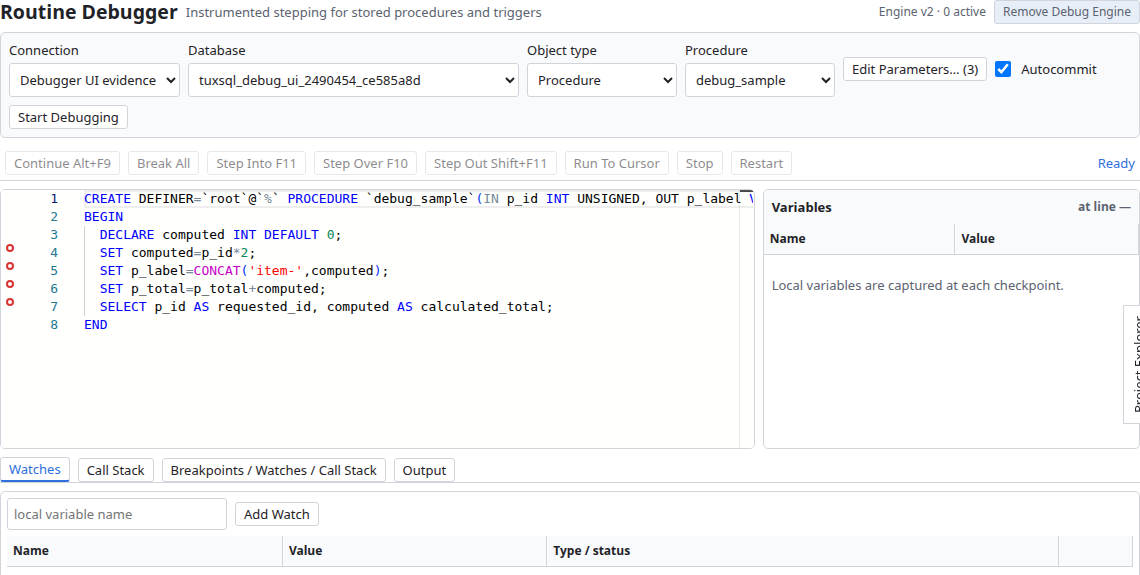
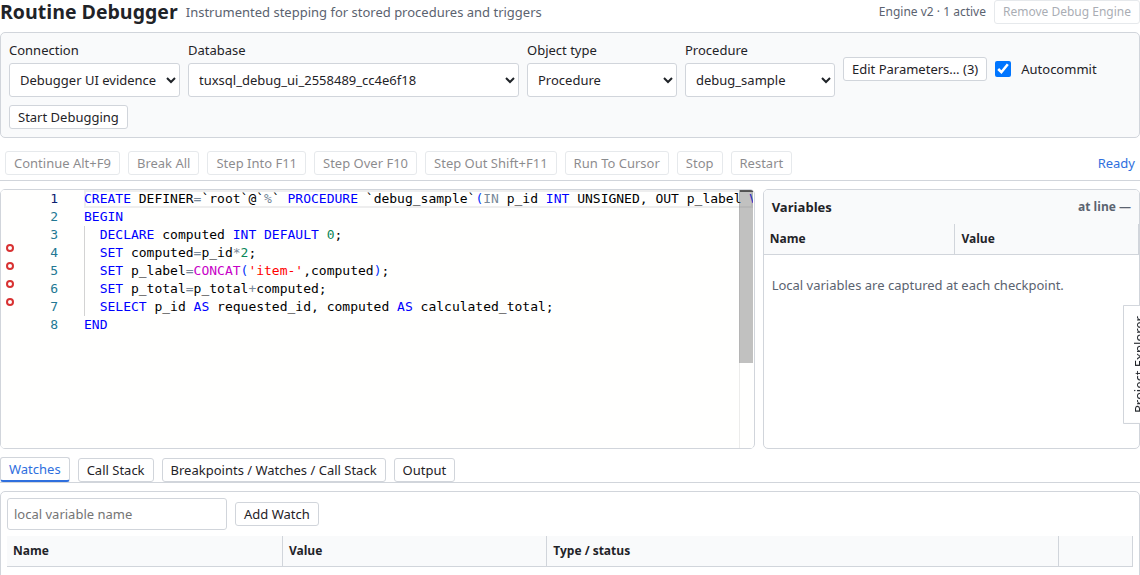
feat(debugger): View Output Parameters at end of run, keep finished status during cleanup; evidence for Break All and dynamic privileges

Changed region(s): [[0.6447, 0.3252, 0.6754, 0.6504], [0.8596, 0.0, 1.0, 0.0296], [0.2763, 0.1183, 0.3684, 0.1478]]

diff --git a/app/src/main/ipc/routine-debugger.ts b/app/src/main/ipc/routine-debugger.ts
@@ -235,7 +235,9 @@ async function runTarget(live: LiveSession, args: Array<string | null>, autocomm
     if (live.snapshot.status === 'error') live.snapshot.output.push(`Routine failed: ${message}`)
   } finally {
     clearInterval(poller)
-    try { await pollSnapshot(live) } catch { /* keep the terminal event */ }
+    if (!['finished', 'stopped', 'error'].includes(live.snapshot.status)) {
+      try { await pollSnapshot(live) } catch { /* keep the terminal event */ }
+    }
     let restored = false
       try { await restoreObject(live.executor, live.target.database, live.target.name, live.target.kind ?? 'procedure', live.originalSql); restored = true }
     catch (targetRestoreError) {

diff --git a/document/paridade/F-DBG.md b/document/paridade/F-DBG.md
@@ -8,17 +8,17 @@ Fontes consultadas: `document/01-rea-inventario.md` (M16), `document/05-rea-debu
 | Detecção de ausência do engine de debug e diálogo de confirmação de compilação com debug info. | CONFIRMADA | Confirmado na VM em `re/original-observation/03-debugger/04-compile-for-debugging-1742.png` ("Procedure '...' has been successfully compiled with debug info"). | `app/test/modules/routine-debugger.test.ts` valida guarda de instalação e compilação. |
 | Diálogo modal "Edit Parameters" antes do início: Name, Type, Direction, Null value, Value, Show after execute. | CONFIRMADA | Confirmado na VM em `re/original-observation/03-debugger/05-step-into-1742.png` e `06-edit-parameters-filled-1742.png`. | `app/test/modules/routine-debugger.test.ts` manipula parâmetros de entrada e saída. |
 | Perspectiva de debug com abas General/Data/SQL, destaque amarelo na linha ativa com seta e painéis docados Watches, Breakpoints e Call Stack. | CONFIRMADA | Confirmado na VM em `re/original-observation/03-debugger/07-debug-session-1742.png` e `09-after-step-over-1743.png`. | `app/test/modules/routine-debugger.test.ts` e screenshots em `document/evidence/ui/routine-debugger-{light,dark}.png`. |
-| Comandos de passo e atalhos: Step Into (`F11`), Step Over (`F10`), Step Out (`Shift+F11`), Toggle Breakpoint (`F9`), Continue (`Ctrl+F5`), Break All (`Ctrl+Alt+Pause`), Stop (`Shift+F5`), Restart (`Ctrl+Shift+F5`). | CONFIRMADA | Confirmado na VM no menu Debug ativo em `re/original-observation/03-debugger/08-debug-menu-1742.png` e passos executados em `09-after-step-over-1743.png` e `11-second-step-over-1743.png`. | `app/test/modules/keymap-parity.test.ts`; `app/test/modules/routine-debugger.test.ts`. |
+| Comandos de passo e atalhos: Step Into (`F11`), Step Over (`F10`), Step Out (`Shift+F11`), Toggle Breakpoint (`F9`), Continue (`Ctrl+F5`), Break All (`Ctrl+Alt+Pause`), Stop (`Shift+F5`), Restart (`Ctrl+Shift+F5`). | CONFIRMADA | Confirmado na VM no menu Debug ativo em `re/original-observation/03-debugger/08-debug-menu-1742.png` e passos executados em `09-after-step-over-1743.png` e `11-second-step-over-1743.png`. | `app/test/modules/keymap-parity.test.ts`; `app/test/modules/routine-debugger.test.ts`; capturas `document/evidence/ui/debugger-break-all-{light,dark}.png`. |
 | Call Stack rastreando pilha de execução com nome da rotina e número da linha do frame ativo. | CONFIRMADA | Confirmado na VM em `re/original-observation/03-debugger/10-call-stack-tab-1743.png` (`sp_customer_orders`, Line 3 -> 4 com seta). | `app/test/modules/routine-debugger.test.ts`. |
-| Watches avaliando variáveis locais e expressões digitadas na linha vazia com atualização em tempo real (`p_count` = 4, INT). | CONFIRMADA | Confirmado na VM em `re/original-observation/03-debugger/12-watch-added-1743.png`. | `app/test/modules/routine-debugger.test.ts`: cobre avaliação, escopo e atualização após execução. |
+| Watches avaliando variáveis locais e expressões digitadas na linha vazia com atualização em tempo real (`p_count` = 4, INT). | CONFIRMADA | Confirmado na VM em `re/original-observation/03-debugger/12-watch-added-1743.png`. | `app/test/modules/routine-debugger.test.ts`: avaliação aritmética, comparações e funções escalares permitidas; rejeita chamadas fora da lista segura e código SQL. |
 | Breakpoints no gutter do editor (`F9`) com registro em painel dedicado (Name, Line, Character). | CONFIRMADA | Confirmado na VM em `re/original-observation/03-debugger/17-breakpoint-f9-line4-1744.png` (colunas Name, Line, Character). | `app/test/modules/routine-debugger.test.ts`. |
-| Diálogo modal "View Output Parameters" ao término da rotina quando "Show after execute" ativo. | CONFIRMADA | Confirmado na VM em `re/original-observation/03-debugger/18-after-continue-1744.png` (valores calculados p_count = 4). | Spec UX 14 §5.3 para implementação pelo Codex. |
-| Visualização dos Resultsets produzidos pela procedure na aba Data pós-execução. | CONFIRMADA | Confirmado na VM em `re/original-observation/03-debugger/19-after-output-params-1744.png` (Record 1 of 4 com colunas id, status, total, ordered_at). | Spec UX 14 §5.4. |
+| Diálogo modal "View Output Parameters" ao término da rotina quando "Show after execute" ativo. | CONFIRMADA | Confirmado na VM em `re/original-observation/03-debugger/18-after-continue-1744.png` (valores calculados p_count = 4). | E2E `app/scripts/routine-security-screenshots.mjs`; `document/evidence/ui/debugger-output-parameters-{light,dark}.png`; teste `app/test/modules/routine-debugger.test.ts` valida chamada segura com parâmetros OUT/INOUT. |
+| Visualização dos Resultsets produzidos pela procedure na aba Data pós-execução. | CONFIRMADA | Confirmado na VM em `re/original-observation/03-debugger/19-after-output-params-1744.png` (Record 1 of 4 com colunas id, status, total, ordered_at). | E2E `app/scripts/routine-security-screenshots.mjs`; `document/evidence/ui/debugger-output-parameters-{light,dark}.png` mostra colunas e linha retornada. |
 | Instrumentação de rotinas com checkpoints e proteção contra sobrescrita de schema original. | ADAPTADA PARA LINUX | A referência usa schema `cr_debug`. O TuxSQL adota schema próprio `tuxsql_linux_debug` isolado. | `app/test/modules/routine-debugger.test.ts`: parse e injeção de checkpoints seguros. |
 | Correção de falha de deploy em MySQL 8.4 com sql_mode estrito (Row size too large / VARCHAR 21845). | ADAPTADA PARA LINUX | Observada falha na referência: tentativa de criar coluna `watch_value` com VARCHAR em UTF-8 de 3 bytes. | `app/test/modules/routine-debugger.test.ts`: o clone utiliza `MEDIUMTEXT` seguro, resolvendo a limitação do original. |
 | Bloqueio rigoroso de desinstalação ou atualização do engine enquanto houver sessões ativas. | ADAPTADA PARA LINUX | Observado no inventário e strings REA (`ActiveDebugSessionsException`). | `app/test/modules/routine-debugger.test.ts`: guarda atômica impedindo deploy destrutivo com sessões vivas. |
 | Depuração de Triggers acionados por DML controlada com advisory lock de isolamento. | ADAPTADA PARA LINUX | Suportado no clone com advisory locks nomeados para sincronização entre sessões. | `app/test/modules/routine-debugger.test.ts`: trigger checkpoint e isolamento. |
-| Breakpoints condicionais (`Condition: total > 100`) e contagem de passagem (`Hit count`). | INFERIDA | Não capturado na VM (DESCONHECIDO em `03-debugger/NOTAS.md`; `17-breakpoint-f9-line4-1744.png` mostra apenas Name/Line/Char). Proposta inferida do clone para paridade estendida. | Spec UX 14 §5.2 documenta proposta para o Codex. |
-| Edição direta de valores de variáveis locais em tempo de execução no grid de Watches. | INFERIDA / DESCONHECIDA | Não comprovado na VM (DESCONHECIDO em `03-debugger/NOTAS.md`). No clone TuxSQL, o grid de Watches é somente leitura durante a pausa. | `SEM IMPLEMENTAÇÃO NO CLONE`: Watches operam somente leitura. |
-| Diálogo modal interativo de tratamento de exceções não tratadas durante o debug. | INFERIDA | Não observado na VM (DESCONHECIDO em `03-debugger/NOTAS.md`). TuxSQL aborta com erro em Output e Error List. | Spec UX 14 §7 detalha divergência. |
+| Breakpoints condicionais (`Condition: total > 100`) e contagem de passagem (`Hit count`). | INFERIDA (melhoria do clone, sem evidência original) | Não observado na auditoria da VM; a captura citada mostra apenas as colunas do painel de breakpoints. | Pendente opcional; não validar como paridade. |
+| Edição direta de valores de variáveis locais em tempo de execução no grid de Watches. | INFERIDA (melhoria do clone, sem evidência original) | Não observado na auditoria da VM. | Pendente opcional; Watches permanecem somente leitura. Não validar como paridade. |
+| Diálogo de escolha entre continuar ou interromper após exceção da rotina. | INFERIDA (melhoria do clone, sem evidência original) | Não observado na auditoria da VM. | Pendente opcional; não validar como paridade. |
 | Depuração assíncrona de Event Schedulers e UDFs compiladas em C/C++. | DIFERENÇA INTENCIONAL | Não há instrumentação viável para binários compilados em C sem fonte ou schedulers desvinculados de sessão interativa. | Decisão de arquitetura documentada em `DIVERGENCIAS-ORIGINAL.md`. |

diff --git a/document/paridade/F-SEC.md b/document/paridade/F-SEC.md
@@ -5,7 +5,7 @@ Fontes consultadas: `document/01-rea-inventario.md` (M12), `document/ux/08-segur
 | Comportamento esperado | Estado | Evidência da referência (PNG confirmado) | Prova no clone |
 |---|---|---|---|
 | Atalhos reais em acordes registrados: Security Manager (`Ctrl+D, Q`), Session Manager (`Ctrl+D, S`), Server Variables (`Ctrl+D, V`), Service Control (`Ctrl+D, R`). | CONFIRMADA | Confirmado na VM em `re/original-observation/07-seguranca-sessoes/09-database-menu-now-1753.png`. | `app/test/modules/keymap-parity.test.ts` e `document/ux/08-seguranca-sessoes.md`. |
-| Security Manager com árvore de usuários (`%`, `localhost`) e abas General, Roles, Global Privileges e Object Privileges. | CONFIRMADA | Confirmado na VM em `re/original-observation/07-seguranca-sessoes/01-security-manager-1752.png` e `02-user-general-1752.png`. | `app/test/modules/security.test.ts` e capturas em `document/evidence/ui/security-{light,dark}.png`. |
+| Security Manager com árvore de usuários (`%`, `localhost`) e abas General, Roles, Global Privileges e Object Privileges. | CONFIRMADA | Confirmado na VM em `re/original-observation/07-seguranca-sessoes/01-security-manager-1752.png` e `02-user-general-1752.png`. | `app/test/modules/security.test.ts` e capturas em `document/evidence/ui/security-{light,dark}.png`; lista dinâmica em `document/evidence/ui/security-dynamic-privileges-{light,dark}.png`. |
 | Suporte aos 36 privilégios dinâmicos do MySQL 8.0/8.4 (ALLOW_NONEXISTENT_DEFINER, APPLICATION_PASSWORD_ADMIN, AUDIT_ADMIN, BACKUP_ADMIN, BINLOG_ADMIN, SYSTEM_USER, etc.) com checkbox "With Grant Option". | CONFIRMADA | Confirmado na VM em `re/original-observation/07-seguranca-sessoes/03-user-global-privileges-1752.png` (grade Name \| Granted com lista completa de estáticos e dinâmicos). | `app/test/modules/security.test.ts` e spec UX 08 §1.2 detalhada para o Codex. |
 | Object Privileges com árvore de schemas/tabelas/views (`[x] Show All`), privilégios disponíveis e grade de concedidos. | CONFIRMADA | Confirmado na VM em `re/original-observation/07-seguranca-sessoes/04-user-object-privileges-1752.png`. | `app/test/modules/security.test.ts`. |
 | Proteção de conta: senha mascarada em Preview SQL (`'***'`) e bloqueio de exclusão ou revogação da própria conta ativa conectada. | CONFIRMADA | Requisito de segurança essencial contra travamento administrativo involuntário. | `app/test/modules/security.test.ts` valida geração de DDL mascarado e bloqueio de auto-revogação. |
